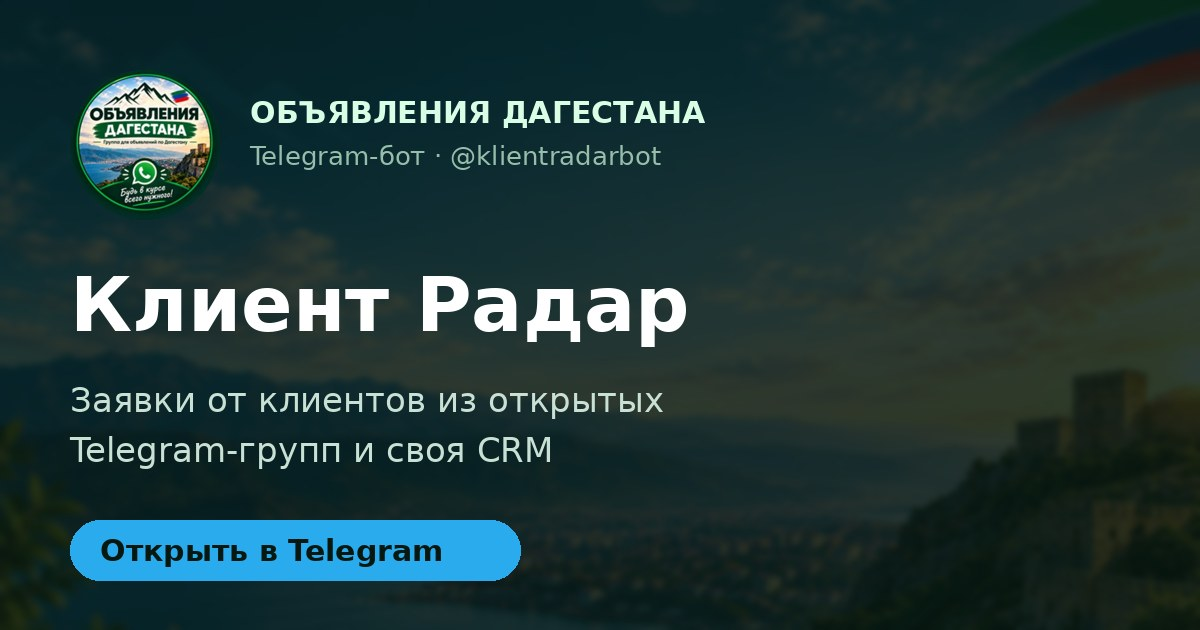
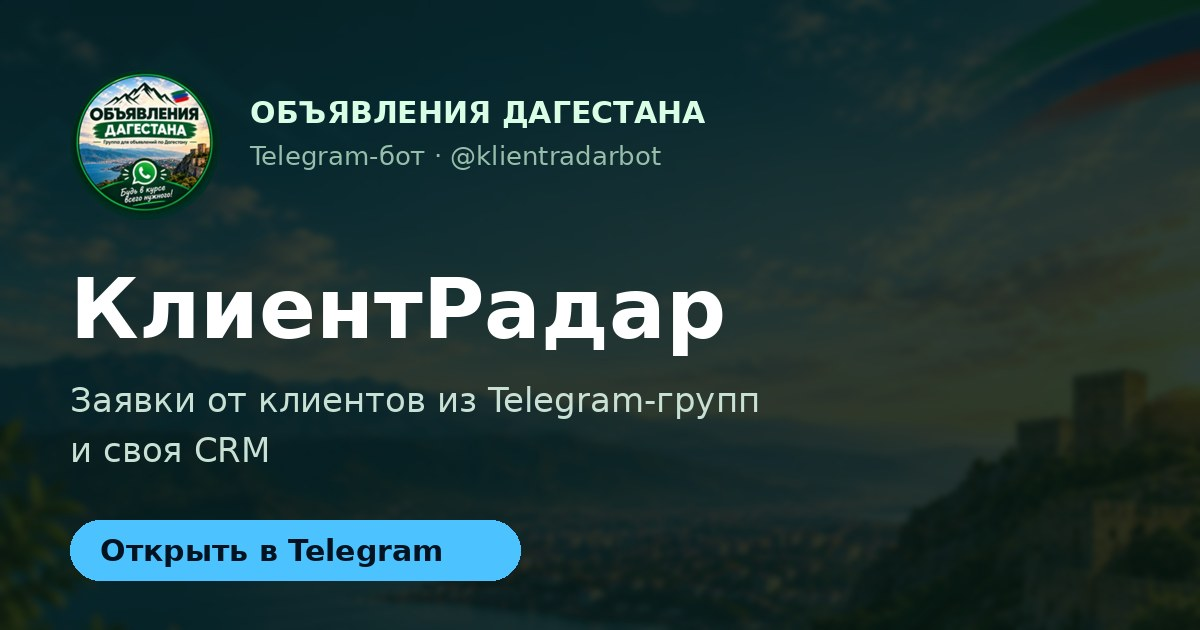
КлиентРадар, этап 2: единое название, блок для админов групп (A5), контакты в подвале (A8) (#15)
Claude-Session: https://claude.ai/code/session_019N4sGgrMWWMMvw9nuPWSGe

diff --git a/bot-crm.html b/bot-crm.html
@@ -3,20 +3,20 @@
 <head>
 <meta charset="UTF-8">
 <meta name="viewport" content="width=device-width, initial-scale=1">
-<title>Клиент Радар — заявки от клиентов — ОБЪЯВЛЕНИЯ ДАГЕСТАНА</title>
+<title>КлиентРадар — заявки от клиентов — ОБЪЯВЛЕНИЯ ДАГЕСТАНА</title>
 <meta name="description" content="Telegram-бот находит заявки от клиентов в Telegram-группах и ведёт CRM: ниши, город, карточки клиентов, напоминания.">
 <meta name="theme-color" content="#0A1F16">
 <meta property="og:type" content="website">
 <meta property="og:site_name" content="ОБЪЯВЛЕНИЯ ДАГЕСТАНА">
 <meta property="og:locale" content="ru_RU">
-<meta property="og:title" content="Клиент Радар — заявки от клиентов — ОБЪЯВЛЕНИЯ ДАГЕСТАНА">
+<meta property="og:title" content="КлиентРадар — заявки от клиентов — ОБЪЯВЛЕНИЯ ДАГЕСТАНА">
 <meta property="og:description" content="Telegram-бот находит заявки от клиентов в Telegram-группах и ведёт CRM: ниши, город, карточки клиентов, напоминания.">
 <meta property="og:image:type" content="image/jpeg">
 <meta property="og:image:width" content="1200">
 <meta property="og:image:height" content="630">
 <meta property="og:image:alt" content="ОБЪЯВЛЕНИЯ ДАГЕСТАНА — покупка, продажа, услуги, работа">
 <meta name="twitter:card" content="summary_large_image">
-<meta name="twitter:title" content="Клиент Радар — заявки от клиентов — ОБЪЯВЛЕНИЯ ДАГЕСТАНА">
+<meta name="twitter:title" content="КлиентРадар — заявки от клиентов — ОБЪЯВЛЕНИЯ ДАГЕСТАНА">
 <meta name="twitter:description" content="Telegram-бот находит заявки от клиентов в Telegram-группах и ведёт CRM: ниши, город, карточки клиентов, напоминания.">
 <meta name="twitter:image:alt" content="ОБЪЯВЛЕНИЯ ДАГЕСТАНА — покупка, продажа, услуги, работа">
 <link rel="canonical" href="https://obyavleniya-dagestan.ru/bot-crm.html">
@@ -88,7 +88,7 @@
 <body class="theme-radar">
 <a class="skip-link" href="#main">К содержимому</a>
 <header class="bh"><div class="wrap">
-  <a class="bh-brand" href="bot-crm.html"><span class="ic" style="width:34px;height:34px;border-radius:50%;display:grid;place-items:center;background:linear-gradient(135deg,#4CC3FF,#3B82F6);color:#031321"><svg viewBox="0 0 24 24" width="18" height="18" fill="none" stroke="currentColor" stroke-width="2.2" stroke-linecap="round" aria-hidden="true"><circle cx="12" cy="12" r="9"/><circle cx="12" cy="12" r="4"/><path d="M12 12l6-6"/></svg></span><span>Клиент Радар</span></a>
+  <a class="bh-brand" href="bot-crm.html"><span class="ic" style="width:34px;height:34px;border-radius:50%;display:grid;place-items:center;background:linear-gradient(135deg,#4CC3FF,#3B82F6);color:#031321"><svg viewBox="0 0 24 24" width="18" height="18" fill="none" stroke="currentColor" stroke-width="2.2" stroke-linecap="round" aria-hidden="true"><circle cx="12" cy="12" r="9"/><circle cx="12" cy="12" r="4"/><path d="M12 12l6-6"/></svg></span><span>КлиентРадар</span></a>
   <nav class="bh-nav" aria-label="Разделы страницы"><a href="#features">Возможности</a><a href="#start">Как начать</a><a href="#tariffs">Тарифы</a><a href="#faq">Вопросы</a><span class="bh-sep" aria-hidden="true"></span><a href="index.html">← На сайт</a><a href="bot-moderation.html">Modexa</a></nav>
   <a class="btn btn-primary btn-sm" href="https://t.me/klientradarbot" rel="noopener" target="_blank" data-goal="bot_crm_open"><svg viewBox="0 0 24 24" fill="currentColor" aria-hidden="true"><path d="M21.9 4.1 2.8 11.5c-1 .4-1 1.3-.2 1.6l4.8 1.5 1.9 5.6c.2.6.4.8.9.8.4 0 .6-.2.9-.5l2.3-2.2 4.7 3.5c.9.5 1.5.2 1.7-.8L23.5 5.4c.3-1.3-.5-1.8-1.6-1.3zM8.7 13.6l9.4-5.9c.4-.3.8-.1.5.2l-7.9 7.1-.3 3.4-1.7-4.8z"/></svg>Открыть в Telegram</a>
   <button class="bh-burger" type="button" aria-label="Меню" aria-expanded="false" aria-controls="bh-menu"><svg viewBox="0 0 24 24" width="22" height="22" fill="none" stroke="currentColor" stroke-width="2" stroke-linecap="round" aria-hidden="true"><path d="M4 7h16M4 12h16M4 17h16"/></svg></button>
@@ -104,7 +104,7 @@
   <div>
     <div class="pill"><i></i>Telegram-бот для продаж</div>
     <h1>Находит <span class="grad">заявки от клиентов</span> в Telegram</h1>
-    <p class="lead">Клиент Радар ищет людей, которым нужна ваша услуга, в Telegram-группах и каналах, присылает заявки и помогает вести клиентов — от первого сообщения до оплаты.</p>
+    <p class="lead">КлиентРадар ищет людей, которым нужна ваша услуга, в Telegram-группах и каналах, присылает заявки и помогает вести клиентов — от первого сообщения до оплаты.</p>
     <div class="hero-ctas"><a class="btn btn-primary" href="https://t.me/klientradarbot" rel="noopener" target="_blank" data-goal="bot_crm_open"><svg viewBox="0 0 24 24" fill="currentColor" aria-hidden="true"><path d="M21.9 4.1 2.8 11.5c-1 .4-1 1.3-.2 1.6l4.8 1.5 1.9 5.6c.2.6.4.8.9.8.4 0 .6-.2.9-.5l2.3-2.2 4.7 3.5c.9.5 1.5.2 1.7-.8L23.5 5.4c.3-1.3-.5-1.8-1.6-1.3zM8.7 13.6l9.4-5.9c.4-.3.8-.1.5.2l-7.9 7.1-.3 3.4-1.7-4.8z"/></svg>Открыть @klientradarbot</a><a class="btn btn-line" href="#features">Что умеет бот</a></div>
     <p class="hero-note"><b>Бесплатный тариф:</b> до 5 заявок в день. Выберите ниши и город — и сразу получите заявки за сутки.</p>
   </div>
@@ -128,6 +128,7 @@
   <div class="sec-head rv"><div class="eyebrow">Для кого</div><h2>Кому подойдёт</h2></div>
   <div class="grid g3"><div class="card rv"><h3>Мастера и специалисты</h3><p>Электрики, мастера по ремонту, репетиторы, фотографы — те, кому нужны новые клиенты.</p></div><div class="card rv"><h3>Агентства и студии</h3><p>Недвижимость, сайты, реклама, юристы: ловите запросы в момент, когда человек ищет исполнителя.</p></div><div class="card rv"><h3>Магазины и небольшой бизнес</h3><p>Находите покупателей в городских группах и ведите их до оплаты в одной CRM.</p></div></div>
 </div></section>
+<section id="admins"><div class="wrap"><div class="sec-head rv"><div class="eyebrow">Для админов групп</div><h2>Каталог, реклама и лицензия за заявки группы</h2></div><div class="card" style="max-width:820px"><p style="font-size:16px">Если у вас есть своя группа или канал, добавьте их в каталог КлиентРадар: за заявки из вашей группы вы получаете бонусные дни тарифа 💎. Заявками группы можно оплатить рекламу в каталоге: 20 заявок — 7 дней в блоке «Рекомендуем». А для защиты самой группы есть бот модерации <a class="promo-link" style="color:var(--accent);font-weight:700" href="bot-moderation.html">Modexa</a> — заявки группы можно обменять и на его лицензию.</p></div></div></section>
 <section id="tariffs"><div class="wrap">
   <div class="sec-head rv"><div class="eyebrow">Тарифы</div><h2>Сколько это стоит</h2></div>
   <div class="tariffs t2"><div class="tariff rv"><h3>Бесплатный</h3><div class="price">0 ₽<small></small></div><p>До 5 заявок в день с небольшой задержкой. Своя CRM, ниши и город.</p></div><div class="tariff pop rv"><span class="badge">Популярный</span><h3>Полный 💎</h3><div class="price">Дни за бонусы<small></small></div><p>Заявки сразу и без дневного лимита. Дни — за приглашения и свои группы или покупкой в боте.</p></div></div>
@@ -143,10 +144,10 @@
 </div></div>
 </main>
 <footer class="bf"><div class="wrap">
-  <a class="bh-brand" href="bot-crm.html"><span class="ic" style="width:34px;height:34px;border-radius:50%;display:grid;place-items:center;background:linear-gradient(135deg,#4CC3FF,#3B82F6);color:#031321"><svg viewBox="0 0 24 24" width="18" height="18" fill="none" stroke="currentColor" stroke-width="2.2" stroke-linecap="round" aria-hidden="true"><circle cx="12" cy="12" r="9"/><circle cx="12" cy="12" r="4"/><path d="M12 12l6-6"/></svg></span><span>Клиент Радар</span></a>
+  <a class="bh-brand" href="bot-crm.html"><span class="ic" style="width:34px;height:34px;border-radius:50%;display:grid;place-items:center;background:linear-gradient(135deg,#4CC3FF,#3B82F6);color:#031321"><svg viewBox="0 0 24 24" width="18" height="18" fill="none" stroke="currentColor" stroke-width="2.2" stroke-linecap="round" aria-hidden="true"><circle cx="12" cy="12" r="9"/><circle cx="12" cy="12" r="4"/><path d="M12 12l6-6"/></svg></span><span>КлиентРадар</span></a>
   <a href="index.html">← ОБЪЯВЛЕНИЯ ДАГЕСТАНА</a>
   <a href="bot-moderation.html">Modexa — модерация для вашей группы</a>
-  <a class="sp" href="privacy.html">Политика конфиденциальности</a>
+  <span>Контакты: <a href="https://t.me/Abdylzhelil05" rel="noopener" target="_blank">@Abdylzhelil05</a> · <a href="mailto:abdulzelilradzabov879@gmail.com">abdulzelilradzabov879@gmail.com</a></span><a class="sp" href="privacy.html">Политика конфиденциальности</a>
 </div></footer>
 <script>(function(){var b=document.querySelector('.bh-burger'),m=document.getElementById('bh-menu');if(!b||!m)return;function s(o){m.hidden=!o;b.setAttribute('aria-expanded',o?'true':'false');}b.addEventListener('click',function(){s(m.hidden);});m.addEventListener('click',function(e){if(e.target.closest('a'))s(false);});document.addEventListener('keydown',function(e){if(e.key==='Escape'&&!m.hidden){s(false);b.focus();}});})();</script>
 <script src="script.js" defer></script>

diff --git a/bot-moderation.html b/bot-moderation.html
@@ -129,13 +129,13 @@
 <a class="skip-link" href="#main">К содержимому</a>
 <header class="bh"><div class="wrap">
   <a class="bh-brand" href="bot-moderation.html"><img src="assets/images/modexa-logo.jpg" alt="" width="34" height="34"><span>Modexa</span></a>
-  <nav class="bh-nav" aria-label="Разделы страницы"><a href="#features">Возможности</a><a href="#screens">Скриншоты</a><a href="#start">Как начать</a><a href="#tariffs">Тарифы</a><a href="#faq">Вопросы</a><span class="bh-sep" aria-hidden="true"></span><a href="index.html">← На сайт</a><a href="bot-crm.html">Клиент Радар</a></nav>
+  <nav class="bh-nav" aria-label="Разделы страницы"><a href="#features">Возможности</a><a href="#screens">Скриншоты</a><a href="#start">Как начать</a><a href="#tariffs">Тарифы</a><a href="#faq">Вопросы</a><span class="bh-sep" aria-hidden="true"></span><a href="index.html">← На сайт</a><a href="bot-crm.html">КлиентРадар</a></nav>
   <a class="btn btn-primary btn-sm" href="https://t.me/ModexaGuardBot" rel="noopener" target="_blank" data-goal="bot_moderation_open"><svg viewBox="0 0 24 24" fill="currentColor" aria-hidden="true"><path d="M21.9 4.1 2.8 11.5c-1 .4-1 1.3-.2 1.6l4.8 1.5 1.9 5.6c.2.6.4.8.9.8.4 0 .6-.2.9-.5l2.3-2.2 4.7 3.5c.9.5 1.5.2 1.7-.8L23.5 5.4c.3-1.3-.5-1.8-1.6-1.3zM8.7 13.6l9.4-5.9c.4-.3.8-.1.5.2l-7.9 7.1-.3 3.4-1.7-4.8z"/></svg>Открыть в Telegram</a>
   <button class="bh-burger" type="button" aria-label="Меню" aria-expanded="false" aria-controls="bh-menu"><svg viewBox="0 0 24 24" width="22" height="22" fill="none" stroke="currentColor" stroke-width="2" stroke-linecap="round" aria-hidden="true"><path d="M4 7h16M4 12h16M4 17h16"/></svg></button>
 </div>
 <div class="bh-menu" id="bh-menu" hidden><div class="wrap">
   <a href="index.html">← На сайт «Объявления Дагестана»</a>
-  <a href="bot-crm.html">Клиент Радар — другой бот</a>
+  <a href="bot-crm.html">КлиентРадар — другой бот</a>
   <a href="#features">Возможности</a><a href="#screens">Скриншоты</a><a href="#start">Как начать</a><a href="#tariffs">Тарифы</a><a href="#faq">Вопросы</a>
 </div></div>
 </header>
@@ -166,6 +166,7 @@
   <div class="sec-head rv"><div class="eyebrow">Для кого</div><h2>Кому подойдёт</h2></div>
   <div class="grid g3"><div class="card rv"><h3>Барахолки и доски объявлений</h3><p>Дубли, лимит объявлений, спам о заработке и платная реклама без комиссии.</p></div><div class="card rv"><h3>Городские и районные чаты</h3><p>Капча для новичков, антиспам, приветствие и правила без круглосуточного дежурства.</p></div><div class="card rv"><h3>Каналы и сообщества</h3><p>Автопостинг, обсуждения канала, доступ за приглашения и статистика роста.</p></div></div>
 </div></section>
+
 <section id="tariffs"><div class="wrap">
   <div class="sec-head rv"><div class="eyebrow">Тарифы</div><h2>Сколько это стоит</h2></div>
   <div class="tariffs "><div class="tariff rv"><h3>Бесплатный</h3><div class="price">0 ₽<small> навсегда</small></div><p>1 группа: капча, ссылки, антифлуд, мат, спам о заработке, приветствие (с подписью бота).</p></div><div class="tariff rv"><h3>Пробный</h3><div class="price">7 дней<small></small></div><p>1 группа, один раз: вся модерация, приветствие и статистика.</p></div><div class="tariff pop rv"><span class="badge">Популярный</span><h3>Подписка</h3><div class="price">250 ₽<small> / месяц</small></div><p>До 3 групп и каналов. Все функции, без подписи бота.</p></div><div class="tariff rv"><h3>Навсегда</h3><div class="price">4900 ₽<small> один раз</small></div><p>До 10 групп и каналов. Все функции, без ежемесячной оплаты.</p></div></div>
@@ -177,13 +178,13 @@
 </div></section>
 <div class="wrap"><div class="final rv">
   <h2>Подключите группу за пару минут</h2><p>Первая группа — бесплатно навсегда. Без карты и сложной настройки.</p>
-  <div class="hero-ctas"><a class="btn btn-primary" href="https://t.me/ModexaGuardBot" rel="noopener" target="_blank" data-goal="bot_moderation_open"><svg viewBox="0 0 24 24" fill="currentColor" aria-hidden="true"><path d="M21.9 4.1 2.8 11.5c-1 .4-1 1.3-.2 1.6l4.8 1.5 1.9 5.6c.2.6.4.8.9.8.4 0 .6-.2.9-.5l2.3-2.2 4.7 3.5c.9.5 1.5.2 1.7-.8L23.5 5.4c.3-1.3-.5-1.8-1.6-1.3zM8.7 13.6l9.4-5.9c.4-.3.8-.1.5.2l-7.9 7.1-.3 3.4-1.7-4.8z"/></svg>Подключить бесплатно</a><a class="btn btn-line" href="bot-crm.html">Клиент Радар — заявки от клиентов</a></div>
+  <div class="hero-ctas"><a class="btn btn-primary" href="https://t.me/ModexaGuardBot" rel="noopener" target="_blank" data-goal="bot_moderation_open"><svg viewBox="0 0 24 24" fill="currentColor" aria-hidden="true"><path d="M21.9 4.1 2.8 11.5c-1 .4-1 1.3-.2 1.6l4.8 1.5 1.9 5.6c.2.6.4.8.9.8.4 0 .6-.2.9-.5l2.3-2.2 4.7 3.5c.9.5 1.5.2 1.7-.8L23.5 5.4c.3-1.3-.5-1.8-1.6-1.3zM8.7 13.6l9.4-5.9c.4-.3.8-.1.5.2l-7.9 7.1-.3 3.4-1.7-4.8z"/></svg>Подключить бесплатно</a><a class="btn btn-line" href="bot-crm.html">КлиентРадар — заявки от клиентов</a></div>
 </div></div>
 </main>
 <footer class="bf"><div class="wrap">
   <a class="bh-brand" href="bot-moderation.html"><img src="assets/images/modexa-logo.jpg" alt="" width="34" height="34"><span>Modexa</span></a>
   <a href="index.html">← ОБЪЯВЛЕНИЯ ДАГЕСТАНА</a>
-  <a href="bot-crm.html">Клиент Радар — заявки от клиентов</a>
+  <a href="bot-crm.html">КлиентРадар — заявки от клиентов</a>
   <a class="sp" href="privacy.html">Политика конфиденциальности</a>
 </div></footer>
 <script>(function(){var b=document.querySelector('.bh-burger'),m=document.getElementById('bh-menu');if(!b||!m)return;function s(o){m.hidden=!o;b.setAttribute('aria-expanded',o?'true':'false');}b.addEventListener('click',function(){s(m.hidden);});m.addEventListener('click',function(e){if(e.target.closest('a'))s(false);});document.addEventListener('keydown',function(e){if(e.key==='Escape'&&!m.hidden){s(false);b.focus();}});})();</script>

diff --git a/privacy.html b/privacy.html
@@ -62,7 +62,7 @@
       <div class="nav-dd dd-cats"><a href="index.html#categories">Категории</a><div class="dd-menu"><a href="avto-dagestan.html">Автомобили</a><a href="nedvizhimost-dagestan.html">Недвижимость</a><a href="tehnika-dagestan.html">Техника</a><a href="odezhda-dagestan.html">Одежда</a><a href="uslugi-dagestan.html">Услуги</a><a href="rabota-dagestan.html">Работа</a><a href="tovary-dagestan.html">Товары</a></div></div>
       <a href="index.html#rules">Правила</a>
       <a href="index.html#advertising">Реклама</a>
-      <div class="nav-dd dd-bots"><a href="index.html#bots">Боты</a><div class="dd-menu"><a href="bot-moderation.html">Modexa</a><a href="bot-crm.html">Клиент Радар</a></div></div>
+      <div class="nav-dd dd-bots"><a href="index.html#bots">Боты</a><div class="dd-menu"><a href="bot-moderation.html">Modexa</a><a href="bot-crm.html">КлиентРадар</a></div></div>
       <a href="#contact">Контакты</a>
         </nav>
     <button class="menu-toggle" type="button" aria-label="Меню" aria-expanded="false" aria-controls="site-nav"><svg aria-hidden="true" focusable="false"><use href="assets/icons/sprite.svg#i-menu"></use></svg></button>
@@ -138,7 +138,7 @@
         <h2>9. Защита данных</h2>
         <p>Оператор принимает организационные и технические меры для защиты данных. Сайт работает по защищённому протоколу HTTPS.</p>
 
-                <h2>10. Telegram-бот «Клиент Радар»</h2>
+                <h2>10. Telegram-бот «КлиентРадар»</h2>
         <p>Этот раздел относится к боту <a href="https://t.me/klientradarbot" rel="noopener" target="_blank">@klientradarbot</a> и его мини-приложению (кабинету). Оператор — тот же, что указан в п. 1.2; контакт в Telegram — @Abdylzhelil05.</p>
         <p>10.1. <strong>Какие данные хранятся.</strong> Бот получает сообщения из групп и каналов, куда он подключён (в том числе через бота модерации), и сохраняет из них текст заявки, имя и публичный ник автора. Номера телефонов и закрытые переписки бот не собирает. Для пользователей бота хранятся их профиль, настройки, ниши, город и тариф.</p>
         <p>10.2. <strong>Сколько хранятся.</strong> Заявки (тексты сообщений, имена и ники их авторов) хранятся не дольше 90 дней, затем удаляются автоматически. Исключение — заявки, из которых пользователь сделал клиента в своей CRM: они остаются, пока пользователь хранит этого клиента. Профиль и настройки хранятся, пока вы пользуетесь ботом. Незавершённая регистрация удаляется через 7 дней (за день до этого приходит предупреждение). После удаления данных остаются записи об оплатах (сумма, срок, дата и числовой ID без имени) — для учёта. Раз в неделю копия базы отправляется владельцу бота в Telegram.</p>
@@ -147,7 +147,7 @@
         <p>10.5. <strong>Где хранятся данные.</strong> Сервер бота находится в Казахстане (Алматы).</p>
 
         <h2>11. Изменение политики</h2>
-        <p>Актуальная версия политики всегда размещена на этой странице. Дата редакции указана в начале документа. 14 октября 2026 года добавлен раздел 10 о боте «Клиент Радар».</p>
+        <p>Актуальная версия политики всегда размещена на этой странице. Дата редакции указана в начале документа. 14 октября 2026 года добавлен раздел 10 о боте «КлиентРадар».</p>
       </article>
     </div>
   </section>
@@ -166,7 +166,7 @@
         <a href="index.html#rules">Правила</a>
         <a href="index.html#advertising">Реклама</a>
         <a href="bot-moderation.html">Modexa</a>
-        <a href="bot-crm.html">Клиент Радар</a>
+        <a href="bot-crm.html">КлиентРадар</a>
         <a href="#contact" data-contact="telegram" data-goal="ad_contact_telegram">Контакты</a>
       </nav>
       <div class="footer-ctas">

diff --git a/index.html b/index.html
@@ -141,7 +141,7 @@
       <div class="nav-dd dd-cats"><a href="#categories">Категории</a><div class="dd-menu"><a href="avto-dagestan.html">Автомобили</a><a href="nedvizhimost-dagestan.html">Недвижимость</a><a href="tehnika-dagestan.html">Техника</a><a href="odezhda-dagestan.html">Одежда</a><a href="uslugi-dagestan.html">Услуги</a><a href="rabota-dagestan.html">Работа</a><a href="tovary-dagestan.html">Товары</a></div></div>
       <a href="#rules">Правила</a>
       <a href="#advertising">Реклама</a>
-      <div class="nav-dd dd-bots"><a href="#bots">Боты</a><div class="dd-menu"><a href="bot-moderation.html">Modexa</a><a href="bot-crm.html">Клиент Радар</a></div></div>
+      <div class="nav-dd dd-bots"><a href="#bots">Боты</a><div class="dd-menu"><a href="bot-moderation.html">Modexa</a><a href="bot-crm.html">КлиентРадар</a></div></div>
       <a href="#contact">Контакты</a>
         </nav>
     <button class="menu-toggle" type="button" aria-label="Меню" aria-expanded="false" aria-controls="site-nav"><svg aria-hidden="true" focusable="false"><use href="assets/icons/sprite.svg#i-menu"></use></svg></button>
@@ -274,7 +274,7 @@
       <article class="bot-card bot-radar reveal">
         <div class="bot-head">
           <span class="bot-ava bot-ava-radar" aria-hidden="true"><svg viewBox="0 0 24 24" width="28" height="28" fill="none" stroke="currentColor" stroke-width="2" stroke-linecap="round"><circle cx="12" cy="12" r="9"/><circle cx="12" cy="12" r="4"/><path d="M12 12l6-6"/></svg></span>
-          <div><h3>Клиент Радар</h3><span class="bot-sub">Заявки от клиентов</span></div>
+          <div><h3>КлиентРадар</h3><span class="bot-sub">Заявки от клиентов</span></div>
         </div>
         <p>Находит людей, которым нужна ваша услуга, в открытых группах, присылает заявки и помогает вести клиентов в CRM.</p>
         <ul class="bot-tags"><li>Заявки</li><li>CRM</li><li>Ниши и город</li><li>Каталог групп</li></ul>
@@ -352,7 +352,7 @@
         <a href="#rules">Правила</a>
         <a href="#advertising">Реклама</a>
         <a href="bot-moderation.html">Modexa</a>
-        <a href="bot-crm.html">Клиент Радар</a>
+        <a href="bot-crm.html">КлиентРадар</a>
         <a href="#contact" data-contact="telegram" data-goal="ad_contact_telegram">Контакты</a>
       </nav>
       <div class="footer-ctas">

diff --git a/avto-dagestan.html b/avto-dagestan.html
@@ -114,7 +114,7 @@
       <div class="nav-dd dd-cats"><a href="index.html#categories">Категории</a><div class="dd-menu"><a href="avto-dagestan.html">Автомобили</a><a href="nedvizhimost-dagestan.html">Недвижимость</a><a href="tehnika-dagestan.html">Техника</a><a href="odezhda-dagestan.html">Одежда</a><a href="uslugi-dagestan.html">Услуги</a><a href="rabota-dagestan.html">Работа</a><a href="tovary-dagestan.html">Товары</a></div></div>
       <a href="index.html#rules">Правила</a>
       <a href="index.html#advertising">Реклама</a>
-      <div class="nav-dd dd-bots"><a href="index.html#bots">Боты</a><div class="dd-menu"><a href="bot-moderation.html">Modexa</a><a href="bot-crm.html">Клиент Радар</a></div></div>
+      <div class="nav-dd dd-bots"><a href="index.html#bots">Боты</a><div class="dd-menu"><a href="bot-moderation.html">Modexa</a><a href="bot-crm.html">КлиентРадар</a></div></div>
       <a href="#contact">Контакты</a>
         </nav>
     <button class="menu-toggle" type="button" aria-label="Меню" aria-expanded="false" aria-controls="site-nav"><svg aria-hidden="true" focusable="false"><use href="assets/icons/sprite.svg#i-menu"></use></svg></button>
@@ -205,7 +205,7 @@
         <a href="index.html#rules">Правила</a>
         <a href="index.html#advertising">Реклама</a>
         <a href="bot-moderation.html">Modexa</a>
-        <a href="bot-crm.html">Клиент Радар</a>
+        <a href="bot-crm.html">КлиентРадар</a>
         <a href="#contact" data-contact="telegram" data-goal="ad_contact_telegram">Контакты</a>
       </nav>
       <div class="footer-ctas">

diff --git a/nedvizhimost-dagestan.html b/nedvizhimost-dagestan.html
@@ -114,7 +114,7 @@
       <div class="nav-dd dd-cats"><a href="index.html#categories">Категории</a><div class="dd-menu"><a href="avto-dagestan.html">Автомобили</a><a href="nedvizhimost-dagestan.html">Недвижимость</a><a href="tehnika-dagestan.html">Техника</a><a href="odezhda-dagestan.html">Одежда</a><a href="uslugi-dagestan.html">Услуги</a><a href="rabota-dagestan.html">Работа</a><a href="tovary-dagestan.html">Товары</a></div></div>
       <a href="index.html#rules">Правила</a>
       <a href="index.html#advertising">Реклама</a>
-      <div class="nav-dd dd-bots"><a href="index.html#bots">Боты</a><div class="dd-menu"><a href="bot-moderation.html">Modexa</a><a href="bot-crm.html">Клиент Радар</a></div></div>
+      <div class="nav-dd dd-bots"><a href="index.html#bots">Боты</a><div class="dd-menu"><a href="bot-moderation.html">Modexa</a><a href="bot-crm.html">КлиентРадар</a></div></div>
       <a href="#contact">Контакты</a>
         </nav>
     <button class="menu-toggle" type="button" aria-label="Меню" aria-expanded="false" aria-controls="site-nav"><svg aria-hidden="true" focusable="false"><use href="assets/icons/sprite.svg#i-menu"></use></svg></button>
@@ -205,7 +205,7 @@
         <a href="index.html#rules">Правила</a>
         <a href="index.html#advertising">Реклама</a>
         <a href="bot-moderation.html">Modexa</a>
-        <a href="bot-crm.html">Клиент Радар</a>
+        <a href="bot-crm.html">КлиентРадар</a>
         <a href="#contact" data-contact="telegram" data-goal="ad_contact_telegram">Контакты</a>
       </nav>
       <div class="footer-ctas">

diff --git a/odezhda-dagestan.html b/odezhda-dagestan.html
@@ -114,7 +114,7 @@
       <div class="nav-dd dd-cats"><a href="index.html#categories">Категории</a><div class="dd-menu"><a href="avto-dagestan.html">Автомобили</a><a href="nedvizhimost-dagestan.html">Недвижимость</a><a href="tehnika-dagestan.html">Техника</a><a href="odezhda-dagestan.html">Одежда</a><a href="uslugi-dagestan.html">Услуги</a><a href="rabota-dagestan.html">Работа</a><a href="tovary-dagestan.html">Товары</a></div></div>
       <a href="index.html#rules">Правила</a>
       <a href="index.html#advertising">Реклама</a>
-      <div class="nav-dd dd-bots"><a href="index.html#bots">Боты</a><div class="dd-menu"><a href="bot-moderation.html">Modexa</a><a href="bot-crm.html">Клиент Радар</a></div></div>
+      <div class="nav-dd dd-bots"><a href="index.html#bots">Боты</a><div class="dd-menu"><a href="bot-moderation.html">Modexa</a><a href="bot-crm.html">КлиентРадар</a></div></div>
       <a href="#contact">Контакты</a>
         </nav>
     <button class="menu-toggle" type="button" aria-label="Меню" aria-expanded="false" aria-controls="site-nav"><svg aria-hidden="true" focusable="false"><use href="assets/icons/sprite.svg#i-menu"></use></svg></button>
@@ -205,7 +205,7 @@
         <a href="index.html#rules">Правила</a>
         <a href="index.html#advertising">Реклама</a>
         <a href="bot-moderation.html">Modexa</a>
-        <a href="bot-crm.html">Клиент Радар</a>
+        <a href="bot-crm.html">КлиентРадар</a>
         <a href="#contact" data-contact="telegram" data-goal="ad_contact_telegram">Контакты</a>
       </nav>
       <div class="footer-ctas">

diff --git a/rabota-dagestan.html b/rabota-dagestan.html
@@ -114,7 +114,7 @@
       <div class="nav-dd dd-cats"><a href="index.html#categories">Категории</a><div class="dd-menu"><a href="avto-dagestan.html">Автомобили</a><a href="nedvizhimost-dagestan.html">Недвижимость</a><a href="tehnika-dagestan.html">Техника</a><a href="odezhda-dagestan.html">Одежда</a><a href="uslugi-dagestan.html">Услуги</a><a href="rabota-dagestan.html">Работа</a><a href="tovary-dagestan.html">Товары</a></div></div>
       <a href="index.html#rules">Правила</a>
       <a href="index.html#advertising">Реклама</a>
-      <div class="nav-dd dd-bots"><a href="index.html#bots">Боты</a><div class="dd-menu"><a href="bot-moderation.html">Modexa</a><a href="bot-crm.html">Клиент Радар</a></div></div>
+      <div class="nav-dd dd-bots"><a href="index.html#bots">Боты</a><div class="dd-menu"><a href="bot-moderation.html">Modexa</a><a href="bot-crm.html">КлиентРадар</a></div></div>
       <a href="#contact">Контакты</a>
         </nav>
     <button class="menu-toggle" type="button" aria-label="Меню" aria-expanded="false" aria-controls="site-nav"><svg aria-hidden="true" focusable="false"><use href="assets/icons/sprite.svg#i-menu"></use></svg></button>
@@ -205,7 +205,7 @@
         <a href="index.html#rules">Правила</a>
         <a href="index.html#advertising">Реклама</a>
         <a href="bot-moderation.html">Modexa</a>
-        <a href="bot-crm.html">Клиент Радар</a>
+        <a href="bot-crm.html">КлиентРадар</a>
         <a href="#contact" data-contact="telegram" data-goal="ad_contact_telegram">Контакты</a>
       </nav>
       <div class="footer-ctas">

diff --git a/tehnika-dagestan.html b/tehnika-dagestan.html
@@ -114,7 +114,7 @@
       <div class="nav-dd dd-cats"><a href="index.html#categories">Категории</a><div class="dd-menu"><a href="avto-dagestan.html">Автомобили</a><a href="nedvizhimost-dagestan.html">Недвижимость</a><a href="tehnika-dagestan.html">Техника</a><a href="odezhda-dagestan.html">Одежда</a><a href="uslugi-dagestan.html">Услуги</a><a href="rabota-dagestan.html">Работа</a><a href="tovary-dagestan.html">Товары</a></div></div>
       <a href="index.html#rules">Правила</a>
       <a href="index.html#advertising">Реклама</a>
-      <div class="nav-dd dd-bots"><a href="index.html#bots">Боты</a><div class="dd-menu"><a href="bot-moderation.html">Modexa</a><a href="bot-crm.html">Клиент Радар</a></div></div>
+      <div class="nav-dd dd-bots"><a href="index.html#bots">Боты</a><div class="dd-menu"><a href="bot-moderation.html">Modexa</a><a href="bot-crm.html">КлиентРадар</a></div></div>
       <a href="#contact">Контакты</a>
         </nav>
     <button class="menu-toggle" type="button" aria-label="Меню" aria-expanded="false" aria-controls="site-nav"><svg aria-hidden="true" focusable="false"><use href="assets/icons/sprite.svg#i-menu"></use></svg></button>
@@ -205,7 +205,7 @@
         <a href="index.html#rules">Правила</a>
         <a href="index.html#advertising">Реклама</a>
         <a href="bot-moderation.html">Modexa</a>
-        <a href="bot-crm.html">Клиент Радар</a>
+        <a href="bot-crm.html">КлиентРадар</a>
         <a href="#contact" data-contact="telegram" data-goal="ad_contact_telegram">Контакты</a>
       </nav>
       <div class="footer-ctas">

diff --git a/tovary-dagestan.html b/tovary-dagestan.html
@@ -114,7 +114,7 @@
       <div class="nav-dd dd-cats"><a href="index.html#categories">Категории</a><div class="dd-menu"><a href="avto-dagestan.html">Автомобили</a><a href="nedvizhimost-dagestan.html">Недвижимость</a><a href="tehnika-dagestan.html">Техника</a><a href="odezhda-dagestan.html">Одежда</a><a href="uslugi-dagestan.html">Услуги</a><a href="rabota-dagestan.html">Работа</a><a href="tovary-dagestan.html">Товары</a></div></div>
       <a href="index.html#rules">Правила</a>
       <a href="index.html#advertising">Реклама</a>
-      <div class="nav-dd dd-bots"><a href="index.html#bots">Боты</a><div class="dd-menu"><a href="bot-moderation.html">Modexa</a><a href="bot-crm.html">Клиент Радар</a></div></div>
+      <div class="nav-dd dd-bots"><a href="index.html#bots">Боты</a><div class="dd-menu"><a href="bot-moderation.html">Modexa</a><a href="bot-crm.html">КлиентРадар</a></div></div>
       <a href="#contact">Контакты</a>
         </nav>
     <button class="menu-toggle" type="button" aria-label="Меню" aria-expanded="false" aria-controls="site-nav"><svg aria-hidden="true" focusable="false"><use href="assets/icons/sprite.svg#i-menu"></use></svg></button>
@@ -205,7 +205,7 @@
         <a href="index.html#rules">Правила</a>
         <a href="index.html#advertising">Реклама</a>
         <a href="bot-moderation.html">Modexa</a>
-        <a href="bot-crm.html">Клиент Радар</a>
+        <a href="bot-crm.html">КлиентРадар</a>
         <a href="#contact" data-contact="telegram" data-goal="ad_contact_telegram">Контакты</a>
       </nav>
       <div class="footer-ctas">

diff --git a/uslugi-dagestan.html b/uslugi-dagestan.html
@@ -114,7 +114,7 @@
       <div class="nav-dd dd-cats"><a href="index.html#categories">Категории</a><div class="dd-menu"><a href="avto-dagestan.html">Автомобили</a><a href="nedvizhimost-dagestan.html">Недвижимость</a><a href="tehnika-dagestan.html">Техника</a><a href="odezhda-dagestan.html">Одежда</a><a href="uslugi-dagestan.html">Услуги</a><a href="rabota-dagestan.html">Работа</a><a href="tovary-dagestan.html">Товары</a></div></div>
       <a href="index.html#rules">Правила</a>
       <a href="index.html#advertising">Реклама</a>
-      <div class="nav-dd dd-bots"><a href="index.html#bots">Боты</a><div class="dd-menu"><a href="bot-moderation.html">Modexa</a><a href="bot-crm.html">Клиент Радар</a></div></div>
+      <div class="nav-dd dd-bots"><a href="index.html#bots">Боты</a><div class="dd-menu"><a href="bot-moderation.html">Modexa</a><a href="bot-crm.html">КлиентРадар</a></div></div>
       <a href="#contact">Контакты</a>
         </nav>
     <button class="menu-toggle" type="button" aria-label="Меню" aria-expanded="false" aria-controls="site-nav"><svg aria-hidden="true" focusable="false"><use href="assets/icons/sprite.svg#i-menu"></use></svg></button>
@@ -205,7 +205,7 @@
         <a href="index.html#rules">Правила</a>
         <a href="index.html#advertising">Реклама</a>
         <a href="bot-moderation.html">Modexa</a>
-        <a href="bot-crm.html">Клиент Радар</a>
+        <a href="bot-crm.html">КлиентРадар</a>
         <a href="#contact" data-contact="telegram" data-goal="ad_contact_telegram">Контакты</a>
       </nav>
       <div class="footer-ctas">

diff --git a/reklama.html b/reklama.html
@@ -61,7 +61,7 @@
       <div class="nav-dd dd-cats"><a href="index.html#categories">Категории</a><div class="dd-menu"><a href="avto-dagestan.html">Автомобили</a><a href="nedvizhimost-dagestan.html">Недвижимость</a><a href="tehnika-dagestan.html">Техника</a><a href="odezhda-dagestan.html">Одежда</a><a href="uslugi-dagestan.html">Услуги</a><a href="rabota-dagestan.html">Работа</a><a href="tovary-dagestan.html">Товары</a></div></div>
       <a href="index.html#rules">Правила</a>
       <a href="index.html#advertising">Реклама</a>
-      <div class="nav-dd dd-bots"><a href="index.html#bots">Боты</a><div class="dd-menu"><a href="bot-moderation.html">Modexa</a><a href="bot-crm.html">Клиент Радар</a></div></div>
+      <div class="nav-dd dd-bots"><a href="index.html#bots">Боты</a><div class="dd-menu"><a href="bot-moderation.html">Modexa</a><a href="bot-crm.html">КлиентРадар</a></div></div>
       <a href="#contact">Контакты</a>
         </nav>
     <button class="menu-toggle" type="button" aria-label="Меню" aria-expanded="false" aria-controls="site-nav"><svg aria-hidden="true" focusable="false"><use href="assets/icons/sprite.svg#i-menu"></use></svg></button>
@@ -159,7 +159,7 @@
         <a href="index.html#rules">Правила</a>
         <a href="index.html#advertising">Реклама</a>
         <a href="bot-moderation.html">Modexa</a>
-        <a href="bot-crm.html">Клиент Радар</a>
+        <a href="bot-crm.html">КлиентРадар</a>
         <a href="#contact" data-contact="telegram" data-goal="ad_contact_telegram">Контакты</a>
       </nav>
       <div class="footer-ctas">
